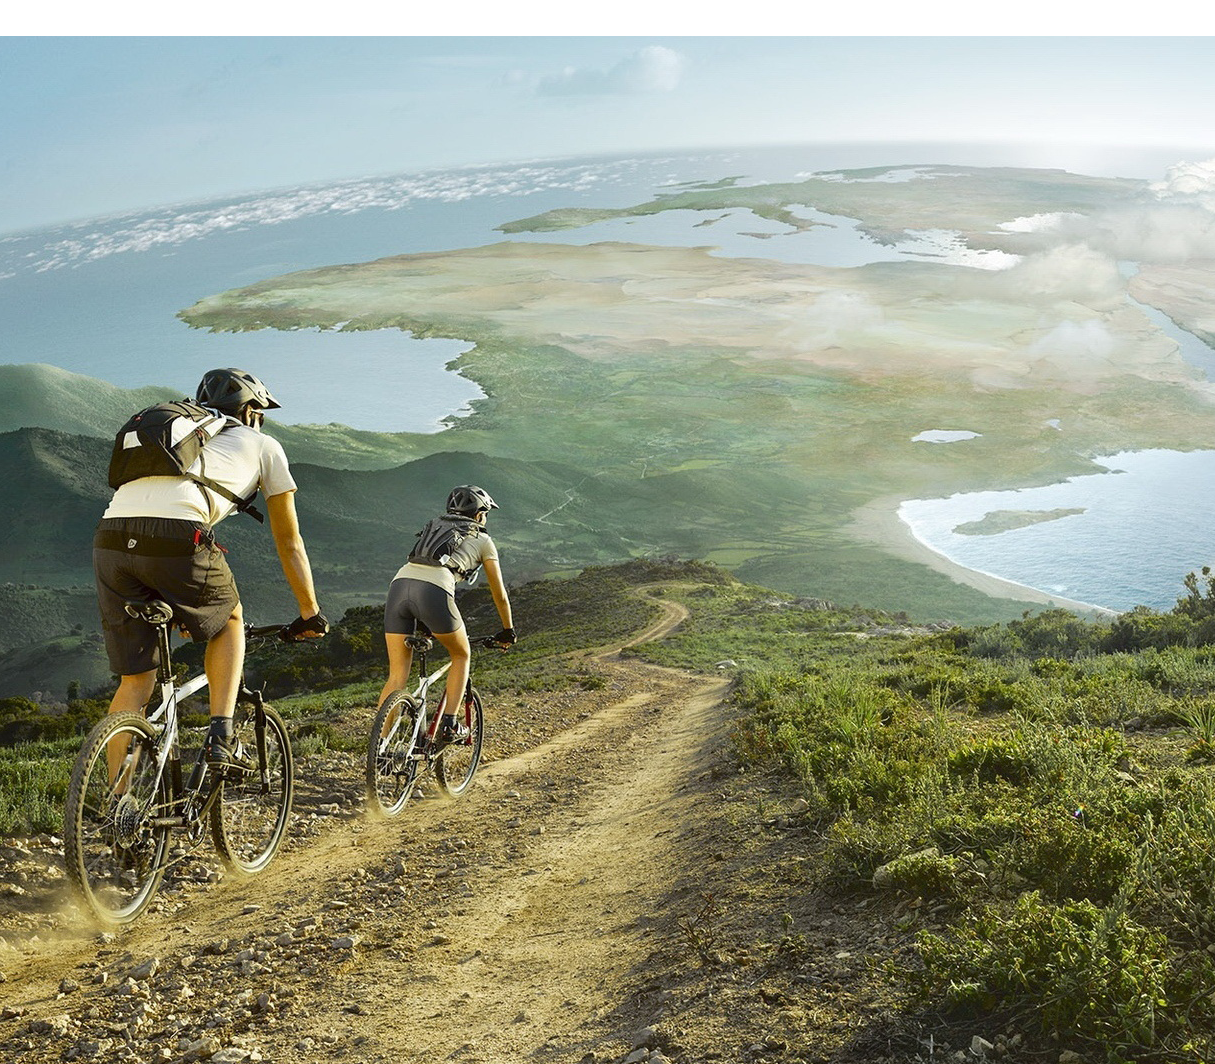
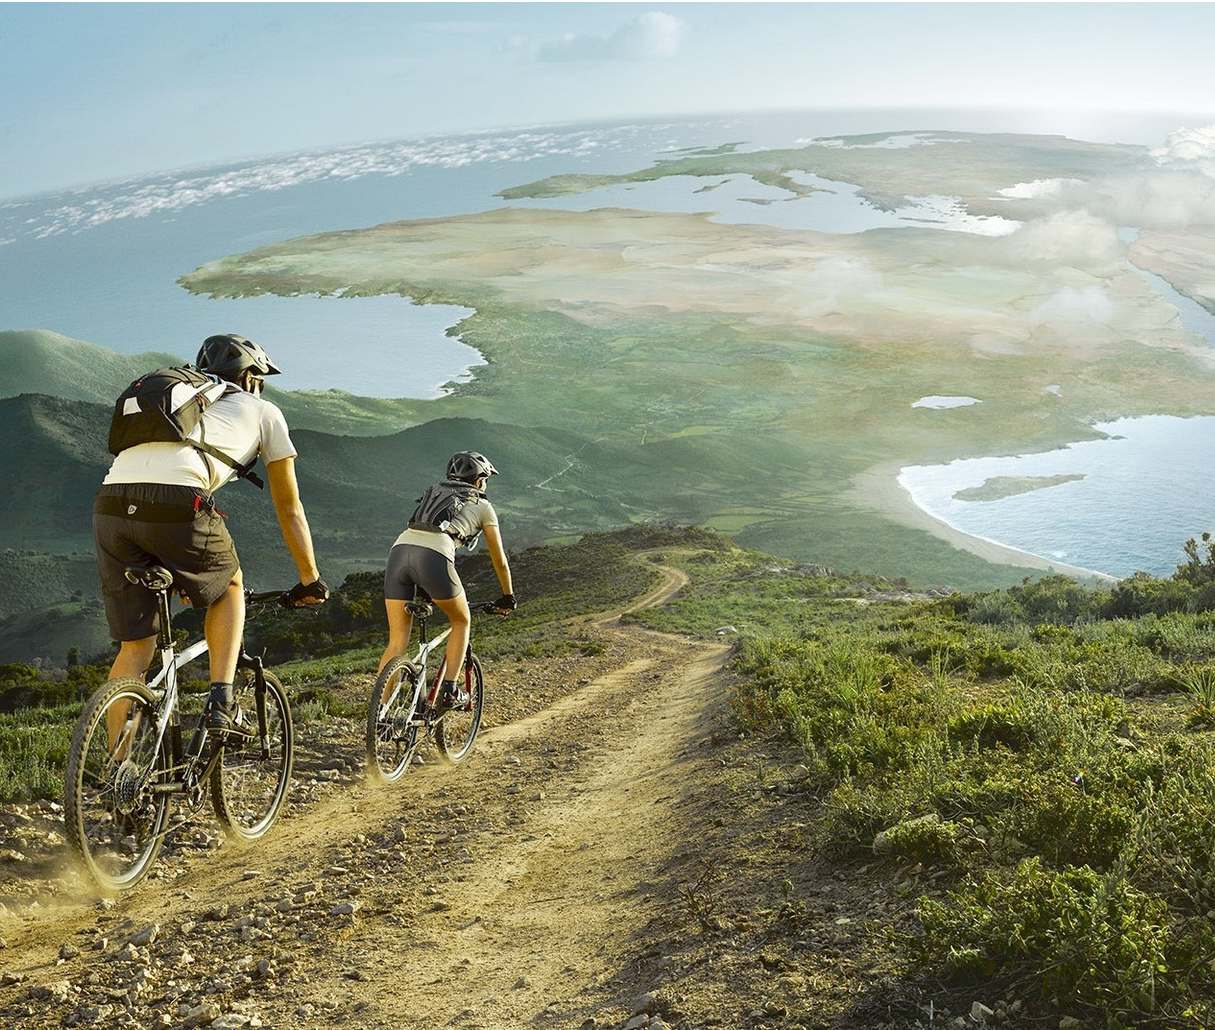
5

diff --git a/Markup/Home/Lesson5/css/style.css b/Markup/Home/Lesson5/css/style.css
@@ -11,16 +11,16 @@
 *{
 	margin: 0;
 	padding: 0;
+	background-size: 100% 100%;
 }
 body{
-	background: url(../img/bg.png) 0 0 no-repeat;
 	font-family: "Helvetica Neue";
 }
 /*Header*/
 .header{
 	position: relative;
 	height: 36px;
-	width: 1214px;
+	width: 100%;
 	background-color: #085291;
 	font-size: 14px;
 
@@ -84,7 +84,9 @@ body{
 /*Content*/
 .wrapper{
 	height: 1022px;
-	width: 1214px;
+	width: 100%;
+	background: url(../img/bg.png);
+	background-size: 100% 100%;
 }
 .form{
 	position: relative;
